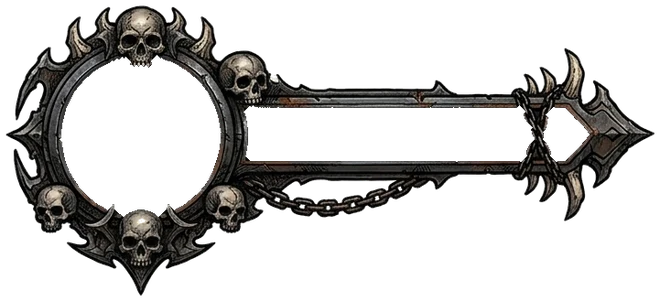
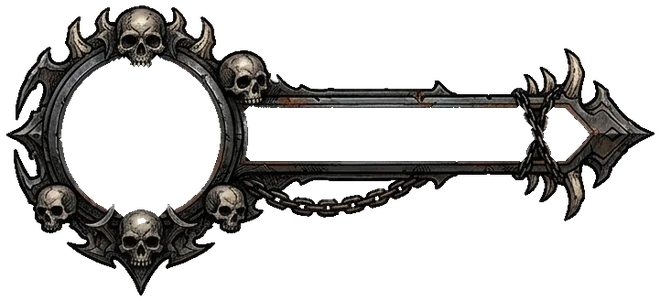
Rekwizyty bez białych obwódek, spokojniejsza ziemia, blok bez podskoków
Przemek przez Patryka, 25 XI 11:57: białe obwódki przy drzewach i trawie, stara tekstura nie pasuje.
Patryk: przy zwykłym mieczu w bloku „podskoki”.

Agent: Claude (Opus)
Claude-Session: https://claude.ai/code/session_01GQsjt3bZ7B4T5Es8veBj7T

diff --git a/gra/rekwizyty.js b/gra/rekwizyty.js
@@ -3,61 +3,61 @@
 export const OGIEN_KLATEK = 18, OGIEN_FPS = 12;
 export const TOTEM_KLATEK = 23, TOTEM_FPS = 6;
 export const REKWIZYTY = {"swierk_a":{"x":0,"y":0,"w":190,"h":448,"ax":0.499,"ay":0.955},
-  "swierk_b":{"x":192,"y":0,"w":169,"h":388,"ax":0.509,"ay":0.953},
+  "swierk_b":{"x":192,"y":0,"w":169,"h":388,"ax":0.508,"ay":0.953},
   "martwe_a":{"x":726,"y":0,"w":175,"h":346,"ax":0.428,"ay":0.951},
-  "martwe_b":{"x":903,"y":0,"w":164,"h":303,"ax":0.431,"ay":0.95},
+  "martwe_b":{"x":903,"y":0,"w":164,"h":303,"ax":0.43,"ay":0.95},
   "kloda":{"x":525,"y":1524,"w":265,"h":209,"ax":0.198,"ay":0.943},
-  "pien":{"x":1508,"y":1740,"w":229,"h":203,"ax":0.466,"ay":0.942},
+  "pien":{"x":1508,"y":1740,"w":229,"h":203,"ax":0.468,"ay":0.942},
   "sosna":{"x":363,"y":0,"w":361,"h":355,"ax":0.414,"ay":0.952},
-  "zlamane":{"x":1069,"y":0,"w":198,"h":296,"ax":0.557,"ay":0.949},
-  "mszyste":{"x":1148,"y":727,"w":255,"h":264,"ax":0.451,"ay":0.947},
-  "krzak_a":{"x":320,"y":1948,"w":164,"h":133,"ax":0.48,"ay":0.93},
-  "krzak_b":{"x":1776,"y":2126,"w":151,"h":126,"ax":0.511,"ay":0.928},
-  "trawa_a":{"x":440,"y":2261,"w":123,"h":97,"ax":0.497,"ay":0.926},
-  "trawa_b":{"x":699,"y":2261,"w":118,"h":96,"ax":0.426,"ay":0.926},
-  "trawa_c":{"x":312,"y":2261,"w":126,"h":102,"ax":0.483,"ay":0.928},
-  "trawa_d":{"x":565,"y":2261,"w":132,"h":97,"ax":0.529,"ay":0.936},
-  "trawa_e":{"x":0,"y":2388,"w":135,"h":83,"ax":0.421,"ay":0.92},
-  "trawa_f":{"x":1260,"y":2261,"w":121,"h":88,"ax":0.511,"ay":0.922},
-  "trawa_g":{"x":161,"y":2473,"w":64,"h":52,"ax":0.607,"ay":0.893},
+  "zlamane":{"x":1069,"y":0,"w":198,"h":296,"ax":0.556,"ay":0.949},
+  "mszyste":{"x":1148,"y":727,"w":255,"h":264,"ax":0.452,"ay":0.947},
+  "krzak_a":{"x":320,"y":1948,"w":164,"h":133,"ax":0.478,"ay":0.93},
+  "krzak_b":{"x":1776,"y":2126,"w":151,"h":126,"ax":0.512,"ay":0.928},
+  "trawa_a":{"x":440,"y":2261,"w":123,"h":97,"ax":0.5,"ay":0.927},
+  "trawa_b":{"x":699,"y":2261,"w":118,"h":96,"ax":0.42,"ay":0.926},
+  "trawa_c":{"x":312,"y":2261,"w":126,"h":102,"ax":0.478,"ay":0.928},
+  "trawa_d":{"x":565,"y":2261,"w":132,"h":97,"ax":0.527,"ay":0.936},
+  "trawa_e":{"x":0,"y":2388,"w":135,"h":83,"ax":0.422,"ay":0.92},
+  "trawa_f":{"x":1260,"y":2261,"w":121,"h":88,"ax":0.508,"ay":0.922},
+  "trawa_g":{"x":161,"y":2473,"w":64,"h":52,"ax":0.614,"ay":0.893},
   "ziemia_a":{"x":137,"y":2388,"w":131,"h":82,"ax":0.496,"ay":0.494},
   "ziemia_b":{"x":1606,"y":2261,"w":134,"h":87,"ax":0.496,"ay":0.494},
-  "ziemia_c":{"x":1742,"y":2261,"w":131,"h":87,"ax":0.5,"ay":0.494},
+  "ziemia_c":{"x":1742,"y":2261,"w":131,"h":87,"ax":0.496,"ay":0.494},
   "mech_a":{"x":991,"y":2261,"w":132,"h":90,"ax":0.496,"ay":0.494},
-  "mech_b":{"x":1125,"y":2261,"w":133,"h":89,"ax":0.496,"ay":0.494},
+  "mech_b":{"x":1125,"y":2261,"w":133,"h":89,"ax":0.496,"ay":0.5},
   "mech_c":{"x":1383,"y":2261,"w":131,"h":88,"ax":0.5,"ay":0.494},
   "mech_d":{"x":1084,"y":2388,"w":162,"h":72,"ax":0.497,"ay":0.493},
-  "mech_e":{"x":270,"y":2388,"w":117,"h":82,"ax":0.496,"ay":0.494},
+  "mech_e":{"x":270,"y":2388,"w":117,"h":82,"ax":0.5,"ay":0.494},
   "bloto":{"x":156,"y":2261,"w":154,"h":123,"ax":0.497,"ay":0.496},
   "liscie":{"x":1476,"y":2126,"w":155,"h":130,"ax":0.497,"ay":0.496},
   "ziemia_d":{"x":0,"y":2261,"w":154,"h":125,"ax":0.497,"ay":0.496},
   "krew_duza":{"x":1633,"y":2126,"w":141,"h":129,"ax":0.496,"ay":0.496},
   "bryzg_a":{"x":868,"y":2388,"w":70,"h":74,"ax":0.493,"ay":0.493},
-  "bryzg_b":{"x":1008,"y":2388,"w":74,"h":73,"ax":0.493,"ay":0.493},
-  "bryzg_c":{"x":1248,"y":2388,"w":74,"h":72,"ax":0.486,"ay":0.5},
+  "bryzg_b":{"x":1008,"y":2388,"w":74,"h":73,"ax":0.493,"ay":0.486},
+  "bryzg_c":{"x":1248,"y":2388,"w":74,"h":72,"ax":0.493,"ay":0.493},
   "bryzg_d":{"x":1324,"y":2388,"w":80,"h":72,"ax":0.494,"ay":0.486},
-  "bryzg_e":{"x":1625,"y":2388,"w":71,"h":68,"ax":0.493,"ay":0.493},
+  "bryzg_e":{"x":1625,"y":2388,"w":71,"h":68,"ax":0.493,"ay":0.485},
   "bryzg_f":{"x":1483,"y":2388,"w":64,"h":70,"ax":0.492,"ay":0.5},
   "bryzg_g":{"x":1406,"y":2388,"w":75,"h":72,"ax":0.493,"ay":0.493},
-  "bryzg_h":{"x":1549,"y":2388,"w":74,"h":70,"ax":0.493,"ay":0.486},
-  "kaluza_a":{"x":0,"y":2473,"w":159,"h":55,"ax":0.497,"ay":0.491},
+  "bryzg_h":{"x":1549,"y":2388,"w":74,"h":70,"ax":0.486,"ay":0.486},
+  "kaluza_a":{"x":0,"y":2473,"w":159,"h":55,"ax":0.497,"ay":0.5},
   "kaluza_b":{"x":1752,"y":2388,"w":146,"h":56,"ax":0.497,"ay":0.482},
   "kaluza_c":{"x":227,"y":2473,"w":91,"h":48,"ax":0.5,"ay":0.49},
-  "kaluza_d":{"x":320,"y":2473,"w":83,"h":47,"ax":0.5,"ay":0.479},
+  "kaluza_d":{"x":320,"y":2473,"w":83,"h":47,"ax":0.494,"ay":0.479},
   "pazury_a":{"x":940,"y":2388,"w":66,"h":74,"ax":0.5,"ay":0.493},
   "pazury_b":{"x":798,"y":2388,"w":68,"h":76,"ax":0.493,"ay":0.493},
   "iskry_a":{"x":389,"y":2388,"w":80,"h":82,"ax":0.494,"ay":0.494},
-  "iskry_b":{"x":1961,"y":2261,"w":75,"h":84,"ax":0.493,"ay":0.494},
-  "iskry_c":{"x":718,"y":2388,"w":78,"h":78,"ax":0.494,"ay":0.494},
-  "iskry_gwiazda":{"x":636,"y":2388,"w":80,"h":81,"ax":0.494,"ay":0.488},
-  "iskry_wybuch":{"x":471,"y":2388,"w":80,"h":82,"ax":0.5,"ay":0.488},
+  "iskry_b":{"x":1961,"y":2261,"w":75,"h":84,"ax":0.5,"ay":0.488},
+  "iskry_c":{"x":718,"y":2388,"w":78,"h":78,"ax":0.487,"ay":0.5},
+  "iskry_gwiazda":{"x":636,"y":2388,"w":80,"h":81,"ax":0.494,"ay":0.494},
+  "iskry_wybuch":{"x":471,"y":2388,"w":80,"h":82,"ax":0.494,"ay":0.488},
   "bryzg_lot_a":{"x":819,"y":2261,"w":80,"h":91,"ax":0.494,"ay":0.489},
-  "bryzg_lot_b":{"x":553,"y":2388,"w":81,"h":82,"ax":0.494,"ay":0.494},
-  "bryzg_lot_c":{"x":1516,"y":2261,"w":88,"h":88,"ax":0.494,"ay":0.494},
+  "bryzg_lot_b":{"x":553,"y":2388,"w":81,"h":82,"ax":0.488,"ay":0.494},
+  "bryzg_lot_c":{"x":1516,"y":2261,"w":88,"h":88,"ax":0.489,"ay":0.494},
   "bryzg_lot_d":{"x":901,"y":2261,"w":88,"h":91,"ax":0.494,"ay":0.5},
-  "bryzg_wybuch":{"x":1875,"y":2261,"w":84,"h":86,"ax":0.488,"ay":0.494},
-  "krag_kolce":{"x":0,"y":1948,"w":318,"h":176,"ax":0.498,"ay":0.497},
-  "mikstura":{"x":1698,"y":2388,"w":52,"h":61,"ax":0.389,"ay":0.934},
+  "bryzg_wybuch":{"x":1875,"y":2261,"w":84,"h":86,"ax":0.488,"ay":0.488},
+  "krag_kolce":{"x":0,"y":1948,"w":318,"h":176,"ax":0.5,"ay":0.497},
+  "mikstura":{"x":1698,"y":2388,"w":52,"h":61,"ax":0.382,"ay":0.918},
   "ogien_00":{"x":486,"y":1948,"w":162,"h":133,"ax":0.5,"ay":0.78},
   "ogien_01":{"x":650,"y":1948,"w":162,"h":133,"ax":0.5,"ay":0.78},
   "ogien_02":{"x":814,"y":1948,"w":162,"h":133,"ax":0.5,"ay":0.78},
@@ -77,89 +77,89 @@ export const REKWIZYTY = {"swierk_a":{"x":0,"y":0,"w":190,"h":448,"ax":0.499,"ay
   "ogien_16":{"x":1148,"y":2126,"w":162,"h":133,"ax":0.5,"ay":0.78},
   "ogien_17":{"x":1312,"y":2126,"w":162,"h":133,"ax":0.5,"ay":0.78},
   "totem_czaszka_00":{"x":1269,"y":0,"w":162,"h":275,"ax":0.509,"ay":0.94},
-  "totem_czaszka_01":{"x":1433,"y":0,"w":162,"h":275,"ax":0.508,"ay":0.94},
-  "totem_czaszka_02":{"x":1597,"y":0,"w":162,"h":275,"ax":0.508,"ay":0.94},
+  "totem_czaszka_01":{"x":1433,"y":0,"w":162,"h":275,"ax":0.509,"ay":0.94},
+  "totem_czaszka_02":{"x":1597,"y":0,"w":162,"h":275,"ax":0.509,"ay":0.94},
   "totem_czaszka_03":{"x":1761,"y":0,"w":162,"h":275,"ax":0.5,"ay":0.951},
-  "totem_czaszka_04":{"x":0,"y":450,"w":162,"h":275,"ax":0.474,"ay":0.958},
-  "totem_czaszka_05":{"x":164,"y":450,"w":162,"h":275,"ax":0.507,"ay":0.961},
-  "totem_czaszka_06":{"x":328,"y":450,"w":162,"h":275,"ax":0.505,"ay":0.94},
-  "totem_czaszka_07":{"x":492,"y":450,"w":162,"h":275,"ax":0.484,"ay":0.94},
+  "totem_czaszka_04":{"x":0,"y":450,"w":162,"h":275,"ax":0.473,"ay":0.954},
+  "totem_czaszka_05":{"x":164,"y":450,"w":162,"h":275,"ax":0.52,"ay":0.958},
+  "totem_czaszka_06":{"x":328,"y":450,"w":162,"h":275,"ax":0.495,"ay":0.94},
+  "totem_czaszka_07":{"x":492,"y":450,"w":162,"h":275,"ax":0.485,"ay":0.94},
   "totem_czaszka_08":{"x":656,"y":450,"w":162,"h":275,"ax":0.5,"ay":0.94},
-  "totem_czaszka_09":{"x":820,"y":450,"w":162,"h":275,"ax":0.499,"ay":0.94},
-  "totem_czaszka_10":{"x":984,"y":450,"w":162,"h":275,"ax":0.497,"ay":0.94},
-  "totem_czaszka_11":{"x":1148,"y":450,"w":162,"h":275,"ax":0.515,"ay":0.94},
-  "totem_czaszka_12":{"x":1312,"y":450,"w":162,"h":275,"ax":0.491,"ay":0.94},
-  "totem_czaszka_13":{"x":1476,"y":450,"w":162,"h":275,"ax":0.496,"ay":0.94},
-  "totem_czaszka_14":{"x":1640,"y":450,"w":162,"h":275,"ax":0.5,"ay":0.94},
+  "totem_czaszka_09":{"x":820,"y":450,"w":162,"h":275,"ax":0.5,"ay":0.94},
+  "totem_czaszka_10":{"x":984,"y":450,"w":162,"h":275,"ax":0.499,"ay":0.94},
+  "totem_czaszka_11":{"x":1148,"y":450,"w":162,"h":275,"ax":0.517,"ay":0.94},
+  "totem_czaszka_12":{"x":1312,"y":450,"w":162,"h":275,"ax":0.493,"ay":0.94},
+  "totem_czaszka_13":{"x":1476,"y":450,"w":162,"h":275,"ax":0.498,"ay":0.94},
+  "totem_czaszka_14":{"x":1640,"y":450,"w":162,"h":275,"ax":0.501,"ay":0.94},
   "totem_czaszka_15":{"x":1804,"y":450,"w":162,"h":275,"ax":0.504,"ay":0.94},
-  "totem_czaszka_16":{"x":0,"y":727,"w":162,"h":275,"ax":0.495,"ay":0.94},
-  "totem_czaszka_17":{"x":164,"y":727,"w":162,"h":275,"ax":0.48,"ay":0.94},
-  "totem_czaszka_18":{"x":328,"y":727,"w":162,"h":275,"ax":0.452,"ay":0.94},
+  "totem_czaszka_16":{"x":0,"y":727,"w":162,"h":275,"ax":0.492,"ay":0.94},
+  "totem_czaszka_17":{"x":164,"y":727,"w":162,"h":275,"ax":0.477,"ay":0.94},
+  "totem_czaszka_18":{"x":328,"y":727,"w":162,"h":275,"ax":0.448,"ay":0.94},
   "totem_czaszka_19":{"x":492,"y":727,"w":162,"h":275,"ax":0.488,"ay":0.94},
   "totem_czaszka_20":{"x":656,"y":727,"w":162,"h":275,"ax":0.491,"ay":0.94},
-  "totem_czaszka_21":{"x":820,"y":727,"w":162,"h":275,"ax":0.505,"ay":0.94},
+  "totem_czaszka_21":{"x":820,"y":727,"w":162,"h":275,"ax":0.504,"ay":0.94},
   "totem_czaszka_22":{"x":984,"y":727,"w":162,"h":275,"ax":0.507,"ay":0.94},
   "totem_rogi_00":{"x":1405,"y":727,"w":115,"h":258,"ax":0.526,"ay":0.961},
-  "totem_rogi_01":{"x":1522,"y":727,"w":115,"h":258,"ax":0.526,"ay":0.961},
-  "totem_rogi_02":{"x":1639,"y":727,"w":115,"h":258,"ax":0.526,"ay":0.961},
-  "totem_rogi_03":{"x":1756,"y":727,"w":115,"h":258,"ax":0.527,"ay":0.961},
-  "totem_rogi_04":{"x":1873,"y":727,"w":115,"h":258,"ax":0.529,"ay":0.961},
-  "totem_rogi_05":{"x":0,"y":1004,"w":115,"h":258,"ax":0.527,"ay":0.961},
-  "totem_rogi_06":{"x":117,"y":1004,"w":115,"h":258,"ax":0.532,"ay":0.961},
+  "totem_rogi_01":{"x":1522,"y":727,"w":115,"h":258,"ax":0.527,"ay":0.961},
+  "totem_rogi_02":{"x":1639,"y":727,"w":115,"h":258,"ax":0.529,"ay":0.961},
+  "totem_rogi_03":{"x":1756,"y":727,"w":115,"h":258,"ax":0.529,"ay":0.961},
+  "totem_rogi_04":{"x":1873,"y":727,"w":115,"h":258,"ax":0.53,"ay":0.961},
+  "totem_rogi_05":{"x":0,"y":1004,"w":115,"h":258,"ax":0.528,"ay":0.961},
+  "totem_rogi_06":{"x":117,"y":1004,"w":115,"h":258,"ax":0.534,"ay":0.961},
   "totem_rogi_07":{"x":234,"y":1004,"w":115,"h":258,"ax":0.538,"ay":0.961},
-  "totem_rogi_08":{"x":351,"y":1004,"w":115,"h":258,"ax":0.538,"ay":0.961},
-  "totem_rogi_09":{"x":468,"y":1004,"w":115,"h":258,"ax":0.537,"ay":0.961},
-  "totem_rogi_10":{"x":585,"y":1004,"w":115,"h":258,"ax":0.534,"ay":0.961},
-  "totem_rogi_11":{"x":702,"y":1004,"w":115,"h":258,"ax":0.534,"ay":0.961},
-  "totem_rogi_12":{"x":819,"y":1004,"w":115,"h":258,"ax":0.535,"ay":0.961},
-  "totem_rogi_13":{"x":936,"y":1004,"w":115,"h":258,"ax":0.537,"ay":0.961},
-  "totem_rogi_14":{"x":1053,"y":1004,"w":115,"h":258,"ax":0.535,"ay":0.961},
-  "totem_rogi_15":{"x":1170,"y":1004,"w":115,"h":258,"ax":0.535,"ay":0.961},
-  "totem_rogi_16":{"x":1287,"y":1004,"w":115,"h":258,"ax":0.539,"ay":0.961},
-  "totem_rogi_17":{"x":1404,"y":1004,"w":115,"h":258,"ax":0.54,"ay":0.961},
-  "totem_rogi_18":{"x":1521,"y":1004,"w":115,"h":258,"ax":0.537,"ay":0.961},
+  "totem_rogi_08":{"x":351,"y":1004,"w":115,"h":258,"ax":0.54,"ay":0.961},
+  "totem_rogi_09":{"x":468,"y":1004,"w":115,"h":258,"ax":0.539,"ay":0.961},
+  "totem_rogi_10":{"x":585,"y":1004,"w":115,"h":258,"ax":0.537,"ay":0.961},
+  "totem_rogi_11":{"x":702,"y":1004,"w":115,"h":258,"ax":0.537,"ay":0.961},
+  "totem_rogi_12":{"x":819,"y":1004,"w":115,"h":258,"ax":0.539,"ay":0.961},
+  "totem_rogi_13":{"x":936,"y":1004,"w":115,"h":258,"ax":0.539,"ay":0.961},
+  "totem_rogi_14":{"x":1053,"y":1004,"w":115,"h":258,"ax":0.537,"ay":0.961},
+  "totem_rogi_15":{"x":1170,"y":1004,"w":115,"h":258,"ax":0.538,"ay":0.961},
+  "totem_rogi_16":{"x":1287,"y":1004,"w":115,"h":258,"ax":0.54,"ay":0.961},
+  "totem_rogi_17":{"x":1404,"y":1004,"w":115,"h":258,"ax":0.542,"ay":0.961},
+  "totem_rogi_18":{"x":1521,"y":1004,"w":115,"h":258,"ax":0.54,"ay":0.961},
   "totem_rogi_19":{"x":1638,"y":1004,"w":115,"h":258,"ax":0.539,"ay":0.961},
-  "totem_rogi_20":{"x":1755,"y":1004,"w":115,"h":258,"ax":0.534,"ay":0.961},
-  "totem_rogi_21":{"x":1872,"y":1004,"w":115,"h":258,"ax":0.531,"ay":0.961},
+  "totem_rogi_20":{"x":1755,"y":1004,"w":115,"h":258,"ax":0.536,"ay":0.961},
+  "totem_rogi_21":{"x":1872,"y":1004,"w":115,"h":258,"ax":0.532,"ay":0.961},
   "totem_rogi_22":{"x":0,"y":1264,"w":115,"h":258,"ax":0.528,"ay":0.961},
-  "totem_obelisk_00":{"x":117,"y":1264,"w":103,"h":214,"ax":0.519,"ay":0.96},
-  "totem_obelisk_01":{"x":222,"y":1264,"w":103,"h":214,"ax":0.519,"ay":0.96},
-  "totem_obelisk_02":{"x":327,"y":1264,"w":103,"h":214,"ax":0.519,"ay":0.96},
-  "totem_obelisk_03":{"x":432,"y":1264,"w":103,"h":214,"ax":0.519,"ay":0.96},
-  "totem_obelisk_04":{"x":537,"y":1264,"w":103,"h":214,"ax":0.519,"ay":0.96},
+  "totem_obelisk_00":{"x":117,"y":1264,"w":103,"h":214,"ax":0.52,"ay":0.96},
+  "totem_obelisk_01":{"x":222,"y":1264,"w":103,"h":214,"ax":0.52,"ay":0.96},
+  "totem_obelisk_02":{"x":327,"y":1264,"w":103,"h":214,"ax":0.52,"ay":0.96},
+  "totem_obelisk_03":{"x":432,"y":1264,"w":103,"h":214,"ax":0.52,"ay":0.96},
+  "totem_obelisk_04":{"x":537,"y":1264,"w":103,"h":214,"ax":0.52,"ay":0.96},
   "totem_obelisk_05":{"x":642,"y":1264,"w":103,"h":214,"ax":0.52,"ay":0.96},
-  "totem_obelisk_06":{"x":747,"y":1264,"w":103,"h":214,"ax":0.519,"ay":0.96},
-  "totem_obelisk_07":{"x":852,"y":1264,"w":103,"h":214,"ax":0.519,"ay":0.96},
+  "totem_obelisk_06":{"x":747,"y":1264,"w":103,"h":214,"ax":0.52,"ay":0.96},
+  "totem_obelisk_07":{"x":852,"y":1264,"w":103,"h":214,"ax":0.52,"ay":0.96},
   "totem_obelisk_08":{"x":957,"y":1264,"w":103,"h":214,"ax":0.52,"ay":0.96},
   "totem_obelisk_09":{"x":1062,"y":1264,"w":103,"h":214,"ax":0.52,"ay":0.96},
   "totem_obelisk_10":{"x":1167,"y":1264,"w":103,"h":214,"ax":0.519,"ay":0.96},
   "totem_obelisk_11":{"x":1272,"y":1264,"w":103,"h":214,"ax":0.52,"ay":0.96},
   "totem_obelisk_12":{"x":1377,"y":1264,"w":103,"h":214,"ax":0.52,"ay":0.96},
   "totem_obelisk_13":{"x":1482,"y":1264,"w":103,"h":214,"ax":0.52,"ay":0.96},
-  "totem_obelisk_14":{"x":1587,"y":1264,"w":103,"h":214,"ax":0.519,"ay":0.96},
+  "totem_obelisk_14":{"x":1587,"y":1264,"w":103,"h":214,"ax":0.52,"ay":0.96},
   "totem_obelisk_15":{"x":1692,"y":1264,"w":103,"h":214,"ax":0.52,"ay":0.96},
-  "totem_obelisk_16":{"x":1797,"y":1264,"w":103,"h":214,"ax":0.519,"ay":0.96},
-  "totem_obelisk_17":{"x":1902,"y":1264,"w":103,"h":214,"ax":0.52,"ay":0.96},
+  "totem_obelisk_16":{"x":1797,"y":1264,"w":103,"h":214,"ax":0.52,"ay":0.96},
+  "totem_obelisk_17":{"x":1902,"y":1264,"w":103,"h":214,"ax":0.521,"ay":0.96},
   "totem_obelisk_18":{"x":0,"y":1524,"w":103,"h":214,"ax":0.52,"ay":0.96},
   "totem_obelisk_19":{"x":105,"y":1524,"w":103,"h":214,"ax":0.519,"ay":0.96},
   "totem_obelisk_20":{"x":210,"y":1524,"w":103,"h":214,"ax":0.52,"ay":0.96},
   "totem_obelisk_21":{"x":315,"y":1524,"w":103,"h":214,"ax":0.52,"ay":0.96},
-  "totem_obelisk_22":{"x":420,"y":1524,"w":103,"h":214,"ax":0.52,"ay":0.96},
+  "totem_obelisk_22":{"x":420,"y":1524,"w":103,"h":214,"ax":0.521,"ay":0.96},
   "totem_kamien_00":{"x":792,"y":1524,"w":114,"h":206,"ax":0.529,"ay":0.96},
   "totem_kamien_01":{"x":908,"y":1524,"w":114,"h":206,"ax":0.529,"ay":0.96},
   "totem_kamien_02":{"x":1024,"y":1524,"w":114,"h":206,"ax":0.529,"ay":0.96},
-  "totem_kamien_03":{"x":1140,"y":1524,"w":114,"h":206,"ax":0.528,"ay":0.96},
+  "totem_kamien_03":{"x":1140,"y":1524,"w":114,"h":206,"ax":0.529,"ay":0.96},
   "totem_kamien_04":{"x":1256,"y":1524,"w":114,"h":206,"ax":0.529,"ay":0.96},
   "totem_kamien_05":{"x":1372,"y":1524,"w":114,"h":206,"ax":0.529,"ay":0.96},
   "totem_kamien_06":{"x":1488,"y":1524,"w":114,"h":206,"ax":0.529,"ay":0.96},
   "totem_kamien_07":{"x":1604,"y":1524,"w":114,"h":206,"ax":0.529,"ay":0.96},
   "totem_kamien_08":{"x":1720,"y":1524,"w":114,"h":206,"ax":0.529,"ay":0.96},
   "totem_kamien_09":{"x":1836,"y":1524,"w":114,"h":206,"ax":0.529,"ay":0.96},
-  "totem_kamien_10":{"x":0,"y":1740,"w":114,"h":206,"ax":0.527,"ay":0.96},
-  "totem_kamien_11":{"x":116,"y":1740,"w":114,"h":206,"ax":0.524,"ay":0.96},
+  "totem_kamien_10":{"x":0,"y":1740,"w":114,"h":206,"ax":0.528,"ay":0.96},
+  "totem_kamien_11":{"x":116,"y":1740,"w":114,"h":206,"ax":0.525,"ay":0.96},
   "totem_kamien_12":{"x":232,"y":1740,"w":114,"h":206,"ax":0.524,"ay":0.96},
   "totem_kamien_13":{"x":348,"y":1740,"w":114,"h":206,"ax":0.525,"ay":0.96},
-  "totem_kamien_14":{"x":464,"y":1740,"w":114,"h":206,"ax":0.519,"ay":0.96},
+  "totem_kamien_14":{"x":464,"y":1740,"w":114,"h":206,"ax":0.52,"ay":0.96},
   "totem_kamien_15":{"x":580,"y":1740,"w":114,"h":206,"ax":0.526,"ay":0.96},
   "totem_kamien_16":{"x":696,"y":1740,"w":114,"h":206,"ax":0.528,"ay":0.96},
   "totem_kamien_17":{"x":812,"y":1740,"w":114,"h":206,"ax":0.529,"ay":0.96},

diff --git a/gra/obrazki.js b/gra/obrazki.js
@@ -24,7 +24,8 @@ export function kafelZiemi() {
   g.fillStyle = '#5f5a4d'; g.fillRect(0, 0, N, N);
   for (let i = 0; i < 260; i++) {
     const x = r() * N, y = r() * N, rx = 10 + r() * 46, ry = rx * (0.4 + r() * 0.3), ciemna = r() < 0.55;
-    zawin(() => { g.fillStyle = ciemna ? 'rgba(52,49,42,0.45)' : 'rgba(112,100,82,0.35)'; g.beginPath(); g.ellipse(x, y, rx, ry, 0, 0, TAU); g.fill(); });
+    // 25 XI (Przemek: stara tekstura „nie pasuje”): plamy słabsze, a jasne nie odcinają się już jak monety
+    zawin(() => { g.fillStyle = ciemna ? 'rgba(52,49,42,0.22)' : 'rgba(104,94,78,0.14)'; g.beginPath(); g.ellipse(x, y, rx, ry, 0, 0, TAU); g.fill(); });
   }
   for (let i = 0; i < 190; i++) {
     const x = r() * N, y = r() * N, dl = 5 + r() * 9;
@@ -34,10 +35,7 @@ export function kafelZiemi() {
       g.stroke();
     });
   }
-  for (let i = 0; i < 90; i++) {
-    const x = r() * N, y = r() * N, rr = 1.5 + r() * 3.5;
-    zawin(() => { g.fillStyle = '#88837a'; g.strokeStyle = 'rgba(20,18,16,0.8)'; g.lineWidth = 0.8; g.beginPath(); g.ellipse(x, y, rr * 1.3, rr, 0, 0, TAU); g.fill(); g.stroke(); });
-  }
+  // kamyki z obrysem (jasne „monety”) usunięte 25 XI: kamienie i ziemię dają teraz kępy z arkuszy Przemka
   g.strokeStyle = 'rgba(20,18,16,0.3)'; g.lineWidth = 0.7;
   for (let i = 0; i < 140; i++) {
     const x = r() * N, y = r() * N;

diff --git a/gra/rysowanie.js b/gra/rysowanie.js
@@ -980,7 +980,7 @@ export function przygotujRysowanie(cv, obrazChaty, { wymusProcesor = false, obra
       // Z filmem cofania faza filmu idzie za krokiem gardy; idąc do przodu (w stronę, w którą patrzy) film leci wstecz.
       if (b.blok && b.idzie) { const f = (b.krokGardy || 0) / TAU; stanRys.cofaFaza = ddx * pz.sx > 0.2 * dd ? -f : f; }
       const krokG = b.blok && b.idzie && !A.cofa ? 0.5 - 0.5 * Math.cos(b.krokGardy || 0) : 0;
-      ustawPostac(bohS, kB, pz.sx, b.x + dj, b.y - 2.5 * Math.sin(b.krokGardy || 0) * (krokG > 0 ? 1 : 0), lx, sy * (1 - 0.035 * krokG), obrot);
+      ustawPostac(bohS, kB, pz.sx, b.x + dj, b.y, lx, sy * (1 - 0.02 * krokG), obrot);   // bez podnoszenia: wyglądało jak podskoki (Patryk, 25 XI 11:57)
       if (b.stan === 'unik' && unikPionowy(b)) {
         // Przewrót w górę i w dół z filmów Patryka (Flow, 24 XI, 14:31): koziołek plecami albo przodem, bez obracania obrazu.
         bohS.skew.set(0, 0);

diff --git a/narzedzia/wytnij-z-arkuszy.py b/narzedzia/wytnij-z-arkuszy.py
@@ -118,12 +118,20 @@ def skladowe(tlo):
 
 
 def alfa_z_bieli(a, maska):
-    """Miękka krawędź: kolor rozmieszany z bielą (biel → przezroczystość), w środku rysunku pełne krycie."""
+    """Miękka krawędź: kolor rozmieszany z bielą (biel → przezroczystość), w środku rysunku pełne krycie.
+    25 XI (Przemek: „część z wyciętych grafik ma białą obwódkę”): jasne, szare piksele przy samym tle też idą do tła,
+    a brzeg rysunku bierze kolor z najbliższego piksela w środku, więc po zmniejszeniu nie zostaje jasna obwódka."""
+    lum = a.mean(2); sat = a.max(2) - a.min(2)
+    przy_tle = ndimage.binary_dilation(~maska, iterations=2)
+    maska = maska & ~(przy_tle & (lum > 185) & (sat < 32))
     wyp = (255 - a.min(2)) / 255
-    alfa = np.clip(wyp * 3.2, 0, 1)
+    alfa = np.clip(wyp * 2.6 - 0.15, 0, 1)
     rdzen = ndimage.binary_erosion(maska, iterations=2)
     alfa = np.where(rdzen, 1.0, alfa) * maska
-    kol = np.clip((a - (1 - alfa)[..., None] * 255) / np.maximum(alfa, 0.05)[..., None], 0, 255)
+    kol = a.copy()
+    if rdzen.any():                                                   # brzeg i tło: kolor najbliższego piksela rdzenia
+        _, (iy, ix) = ndimage.distance_transform_edt(~rdzen, return_indices=True)
+        kol = np.where(rdzen[..., None], a, a[iy, ix])
     return np.dstack([kol, alfa * 255]).astype(np.uint8)
 
 

diff --git a/STAN.md b/STAN.md
@@ -2,7 +2,7 @@
 
 Aktualizowany przy każdej zmianie. Historia jest w gicie, tutaj tylko to, co obowiązuje teraz.
 
-**Ostatnia zmiana:** 25 XI 2026 przed południem: z dwuręcznym w bloku widać kroki w tył (film Patryka z Flow); drzewo zasłaniające bohatera przygasa, zamiast robić z niego ducha. Wcześniej 24 XI wpół do 20: wyciąganie i chowanie miecza tylko na stojąco, w biegu od razu. Wcześniej po 19: w bloku bohater drobi krótkie kroki zamiast sunąć, a cios w ostrze go cofa. Wcześniej po 19: z dwuręcznym bohater ma własne cięcie, gardę, bieg i blok (filmy Patryka z Flow), wybór ulepszeń w ramie z czaszkami. Wcześniej przed 19: totemy da się rozbić (strona cichnie), mikstury z łupu (Q), ognisko gaśnie i trzeba dorzucać drewna ze stosu pod chatą, wybór ulepszenia po każdej fali; dwie bronie (miecz i dwuręczny). Wcześniej wpół do 19: paski w ramie z czaszkami z portretem, totemy z filmu zamiast mgieł (potwory wychodzą spod nich). Wcześniej po 18: dłuższe przerwy między falami (9 s), z każdą falą więcej potworów i bardziej agresywne; etap B grafik Przemka (iskry przy bloku, rozbryzgi krwi, krąg z kolcami pod kolosem, ikony przycisków na telefonie). Wcześniej wieczorem: etap A grafik Przemka (ognisko z filmu, drzewa z arkuszy, kępy trawy, mchu i liści na ziemi, krew i kałuże z arkuszy; docs/materialy-przemka.md). Wcześniej po 15: blok z filmu (unosi, trzyma, drga przy ciosie) i skuteczniejszy (tańszy, szerszy, sam się obraca do wroga). W walce bohater biega z mieczem w dłoni, poza walką stoi prosto. Przed 15: drzwi zamyka się też z izby, jaśniej wokół bohatera, gęstszy koziołek w górę. Wcześniej po 14: przewrót w górę i w dół z filmów Patryka, drzwi chaty otwiera się E (z animacją i skrzypieniem), nowa mgła, polecenie do Flow w dwóch krokach. Wcześniej po południu: chata jak w Tibii (wchodzi się drzwiami, dach znika, w środku posłanie), wyciąganie i chowanie miecza z filmu, chód w dół przodem. Wcześniej w południe: chata ma izbę z obrazu Gemini (chodzenie, sen na posłaniu, wyjście drzwiami), a bohater obok chaty nie robi się już przezroczysty. Wcześniej rano: drzwi i odpoczynek w ciszy, cięcie jak mieczem (sierp i ostrze), garda w walce, plan chaty. W nocy: ghul i kolos z filmów Przemka, a bohater dostał bieg, chód plecami, przewrót przy uniku i upadek. Wcześniej tej nocy klątwa pod R i bohater z filmów. Fundamenty i gra czekają w pull requeście nr 1.
+**Ostatnia zmiana:** 25 XI 2026 w południe: rekwizyty bez białych obwódek, spokojniejsza ziemia, bez podskoków w bloku zwykłym mieczem. Wcześniej przed południem: z dwuręcznym w bloku widać kroki w tył (film Patryka z Flow); drzewo zasłaniające bohatera przygasa, zamiast robić z niego ducha. Wcześniej 24 XI wpół do 20: wyciąganie i chowanie miecza tylko na stojąco, w biegu od razu. Wcześniej po 19: w bloku bohater drobi krótkie kroki zamiast sunąć, a cios w ostrze go cofa. Wcześniej po 19: z dwuręcznym bohater ma własne cięcie, gardę, bieg i blok (filmy Patryka z Flow), wybór ulepszeń w ramie z czaszkami. Wcześniej przed 19: totemy da się rozbić (strona cichnie), mikstury z łupu (Q), ognisko gaśnie i trzeba dorzucać drewna ze stosu pod chatą, wybór ulepszenia po każdej fali; dwie bronie (miecz i dwuręczny). Wcześniej wpół do 19: paski w ramie z czaszkami z portretem, totemy z filmu zamiast mgieł (potwory wychodzą spod nich). Wcześniej po 18: dłuższe przerwy między falami (9 s), z każdą falą więcej potworów i bardziej agresywne; etap B grafik Przemka (iskry przy bloku, rozbryzgi krwi, krąg z kolcami pod kolosem, ikony przycisków na telefonie). Wcześniej wieczorem: etap A grafik Przemka (ognisko z filmu, drzewa z arkuszy, kępy trawy, mchu i liści na ziemi, krew i kałuże z arkuszy; docs/materialy-przemka.md). Wcześniej po 15: blok z filmu (unosi, trzyma, drga przy ciosie) i skuteczniejszy (tańszy, szerszy, sam się obraca do wroga). W walce bohater biega z mieczem w dłoni, poza walką stoi prosto. Przed 15: drzwi zamyka się też z izby, jaśniej wokół bohatera, gęstszy koziołek w górę. Wcześniej po 14: przewrót w górę i w dół z filmów Patryka, drzwi chaty otwiera się E (z animacją i skrzypieniem), nowa mgła, polecenie do Flow w dwóch krokach. Wcześniej po południu: chata jak w Tibii (wchodzi się drzwiami, dach znika, w środku posłanie), wyciąganie i chowanie miecza z filmu, chód w dół przodem. Wcześniej w południe: chata ma izbę z obrazu Gemini (chodzenie, sen na posłaniu, wyjście drzwiami), a bohater obok chaty nie robi się już przezroczysty. Wcześniej rano: drzwi i odpoczynek w ciszy, cięcie jak mieczem (sierp i ostrze), garda w walce, plan chaty. W nocy: ghul i kolos z filmów Przemka, a bohater dostał bieg, chód plecami, przewrót przy uniku i upadek. Wcześniej tej nocy klątwa pod R i bohater z filmów. Fundamenty i gra czekają w pull requeście nr 1.
 
 ## Teraz
 
